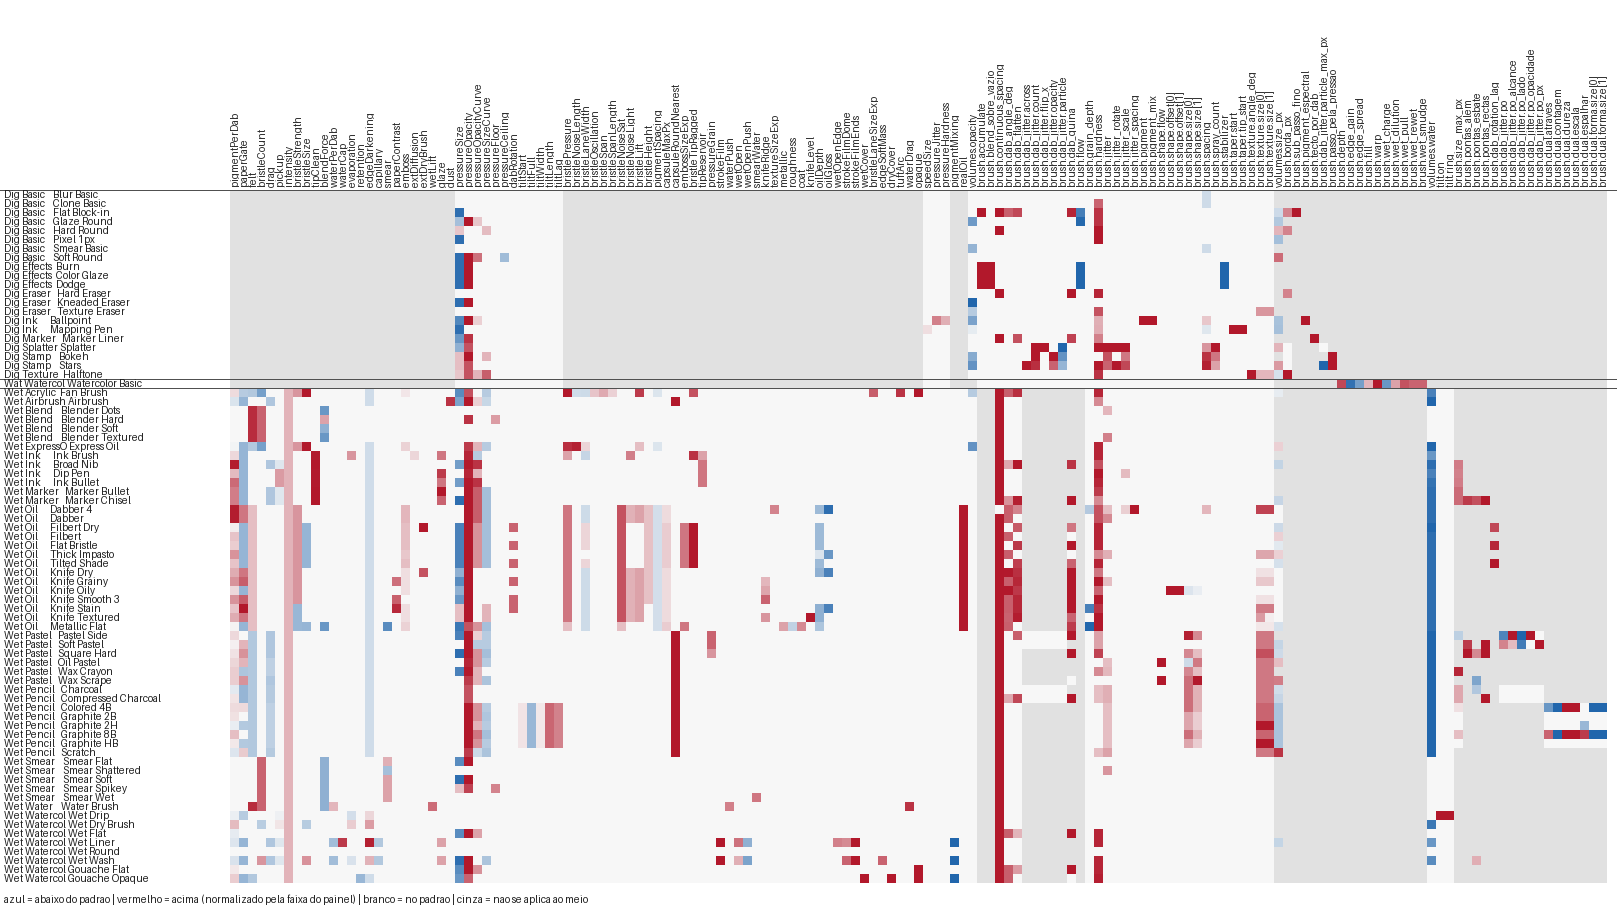
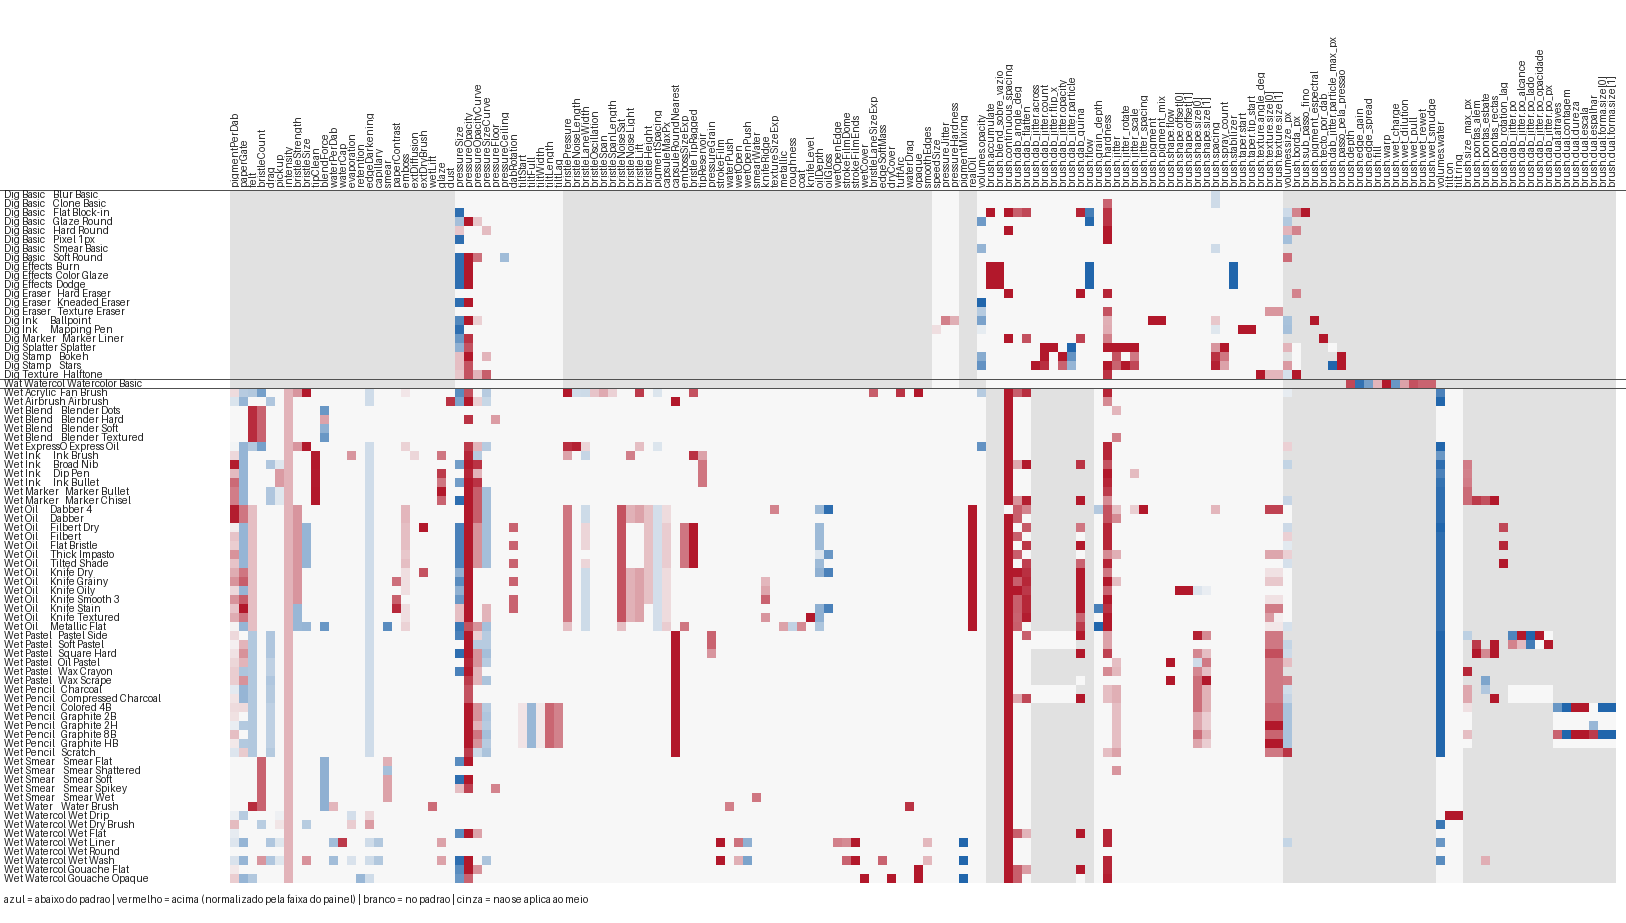
docs(painter): F1 regenerado com o Wet Liner e o Wet Wash novos

diff --git a/docs/Painter/Arquitetura/F1_presets_de_fabrica.md b/docs/Painter/Arquitetura/F1_presets_de_fabrica.md
@@ -42,7 +42,7 @@ Chaves do mapa `engine` que NÃO são knob, linha da mão nem extra conhecido (l
 | `evaporation` | Water | Cartão: Dry speed (`:572`) | 0..8 | 1 | 55 | **4** | 0.6..3 | — |
 | `rewet` | Water | Tuning | 0..8 | 1 | 55 | **0** | 1..1 | — |
 | `retention` | Water | Tuning | 0.9..1 | 0.995 | 55 | **1** | 0.97..0.995 | — |
-| `edgeDarkening` | Water | Cartão: Edge (`:573`) | 0..200 | 12 | 55 | **42** | 0..200 | — |
+| `edgeDarkening` | Water | Cartão: Edge (`:573`) | 0..200 | 12 | 55 | **42** | 0..56.25 | — |
 | `baseEvaporation` | Water | Tuning | 0..20 | 2 | 55 | **0** | 2..2 | — |
 | `leveling` | Hidden | Cartão: leveling (`tabelas.rs:129`) | 0..2 | 0.5 | 55 | **0** | 0.5..0.5 | — |
 | `capillary` | Hidden | Cartão: capillary (`tabelas.rs:131`) | 0..1 | 0.2 | 55 | **2** | 0.05..0.2 | — |
@@ -167,7 +167,7 @@ Chaves do mapa `engine` que NÃO são knob, linha da mão nem extra conhecido (l
 | `volume` | Hidden | ? | 0..1000 | 0.691412 | 0 | **0** | —..— | — |
 | `body` | Hidden | ? | 0..1 | 0 | 0 | **0** | —..— | — |
 | `textureAcrossOwn` | Stroke | ? | 0..1 | 0 | 0 | **0** | —..— | — |
-| `smoothEdges` | Hidden | ? | 0..1 | 0 | 0 | **0** | —..— | — |
+| `smoothEdges` | Hidden | ? | 0..1 | 0 | 2 | **2** | 0.12..0.12 | — |
 | `tiltOpacity` | Mão (fora do registo) | cartão Mão | 0..1 | 0 | 21 | **0** | 0..0 | — |
 | `speedSize` | Mão (fora do registo) | cartão Mão | 0..1 | 0 | 22 | **1** | 0..0.025 | — |
 | `pressureSCurve` | Mão (fora do registo) | cartão Mão | 0..1 | 0 | 0 | **0** | —..— | — |
@@ -379,9 +379,9 @@ Chaves do mapa `engine` que NÃO são knob, linha da mão nem extra conhecido (l
 
 ## (c) Knobs que nenhum pincel usa e knobs de um só pincel
 
-**Nenhum pincel os tira do padrão (75) — candidatos a sair ou a virar constante:**
+**Nenhum pincel os tira do padrão (74) — candidatos a sair ou a virar constante:**
 
-`spacing`, `gateSaturation`, `rewet`, `baseEvaporation`, `leveling`, `brake`, `gravity`, `levelClamp`, `viscosity`, `maxVelocity`, `projection`, `brakeReach`, `capillaryGate`, `eraser`, `dryer`, `blow`, `paperFibres`, `paperGrooves`, `visualGrain`, `paperVisibility`, `extBackrun`, `extFingering`, `extRivulets`, `extGranulation`, `extStaining`, `extWetSoften`, `pressureSmoothing`, `pulledString`, `tiltSmooth`, `bristleWave`, `bristleWaveLength`, `bristleNoiseHue`, `bristleRemove`, `capsuleSpacing`, `embossSizeRef`, `dustDrop`, `bristleStreak`, `bristleStreakLight`, `bristleStreakLength`, `bristleStreakCut`, `thinStrokeFade`, `thinStrokeRef`, `dryerEdge`, `textureSizeRef`, `iorLevel`, `coatRoughness`, `sheen`, `subsurface`, `subsurfaceRadius`, `transparency`, `lockMaterial`, `textureAcrossExp`, `transmission`, `paperRelief`, `transmissionMode`, `dryerLevel`, `blendReach`, `paperPress`, `rewetPaint`, `solubility`, `rewetDrag`, `medium`, `dilution`, `volume`, `body`, `textureAcrossOwn`, `smoothEdges`, `tiltOpacity`, `pressureSCurve`, `speedLag`, `speedHardness`, `speedOpacity`, `erase`, `glazeLayering`, `paintTexture`
+`spacing`, `gateSaturation`, `rewet`, `baseEvaporation`, `leveling`, `brake`, `gravity`, `levelClamp`, `viscosity`, `maxVelocity`, `projection`, `brakeReach`, `capillaryGate`, `eraser`, `dryer`, `blow`, `paperFibres`, `paperGrooves`, `visualGrain`, `paperVisibility`, `extBackrun`, `extFingering`, `extRivulets`, `extGranulation`, `extStaining`, `extWetSoften`, `pressureSmoothing`, `pulledString`, `tiltSmooth`, `bristleWave`, `bristleWaveLength`, `bristleNoiseHue`, `bristleRemove`, `capsuleSpacing`, `embossSizeRef`, `dustDrop`, `bristleStreak`, `bristleStreakLight`, `bristleStreakLength`, `bristleStreakCut`, `thinStrokeFade`, `thinStrokeRef`, `dryerEdge`, `textureSizeRef`, `iorLevel`, `coatRoughness`, `sheen`, `subsurface`, `subsurfaceRadius`, `transparency`, `lockMaterial`, `textureAcrossExp`, `transmission`, `paperRelief`, `transmissionMode`, `dryerLevel`, `blendReach`, `paperPress`, `rewetPaint`, `solubility`, `rewetDrag`, `medium`, `dilution`, `volume`, `body`, `textureAcrossOwn`, `tiltOpacity`, `pressureSCurve`, `speedLag`, `speedHardness`, `speedOpacity`, `erase`, `glazeLayering`, `paintTexture`
 
 **Usados por UM só pincel (26):**
 
@@ -514,10 +514,10 @@ Membro «usado» = valor efectivo fora do padrão. «≥ 2 membros» = pincéis 
 |---|---|---|
 | `edgeDarkening` | 42 | Fan Brush, Airbrush, Express Oil, Ink Brush, Broad Nib, Dip Pen, Ink Bullet, Marker Bullet, Marker Chisel, Dabber 4, Dabber, Filbert Dry, Filbert, Flat Bristle, Thick Impasto, Tilted Shade, Knife Dry, Knife Grainy, Knife Oily, Knife Smooth 3, Knife Stain, Knife Textured, Metallic Flat, Pastel Side, Soft Pastel, Square Hard, Oil Pastel, Wax Crayon, Wax Scrape, Charcoal, Compressed Charcoal, Colored… |
 | `edgeSoftMass` | 1 | Wet Wash |
-| `smoothEdges` | 0 |  |
+| `smoothEdges` | 2 | Wet Liner, Wet Wash |
 | `heavy_edge` | 0 | (nenhum preset grava o campo) |
 
-**≥ 2 membros: 1 pincéis**: Wet Wash
+**≥ 2 membros: 2 pincéis**: Wet Liner, Wet Wash
 
 ### D10 — nivelamento
 
@@ -671,7 +671,7 @@ Membro «usado» = valor efectivo fora do padrão. «≥ 2 membros» = pincéis 
 
 **≥ 2 membros: 1 pincéis**: Metallic Flat
 
-**Resumo:** D1 53 · D2 1 · D3 6 · D4 2 · D5 0 · D6 2 · D7 14 · D8 0 · D9 1 · D10 0 · D11 0 · D12 0 · D13 14 · D14 0 · D15 0 · D16 2 · D17 0 · D18 0 · D19 2 · D20 1 · D21 18 · D22 1
+**Resumo:** D1 53 · D2 1 · D3 6 · D4 2 · D5 0 · D6 2 · D7 14 · D8 0 · D9 2 · D10 0 · D11 0 · D12 0 · D13 14 · D14 0 · D15 0 · D16 2 · D17 0 · D18 0 · D19 2 · D20 1 · D21 18 · D22 1
 
 ## (e) Pincéis de óleo: todos os knobs fora do padrão, lado a lado
 
